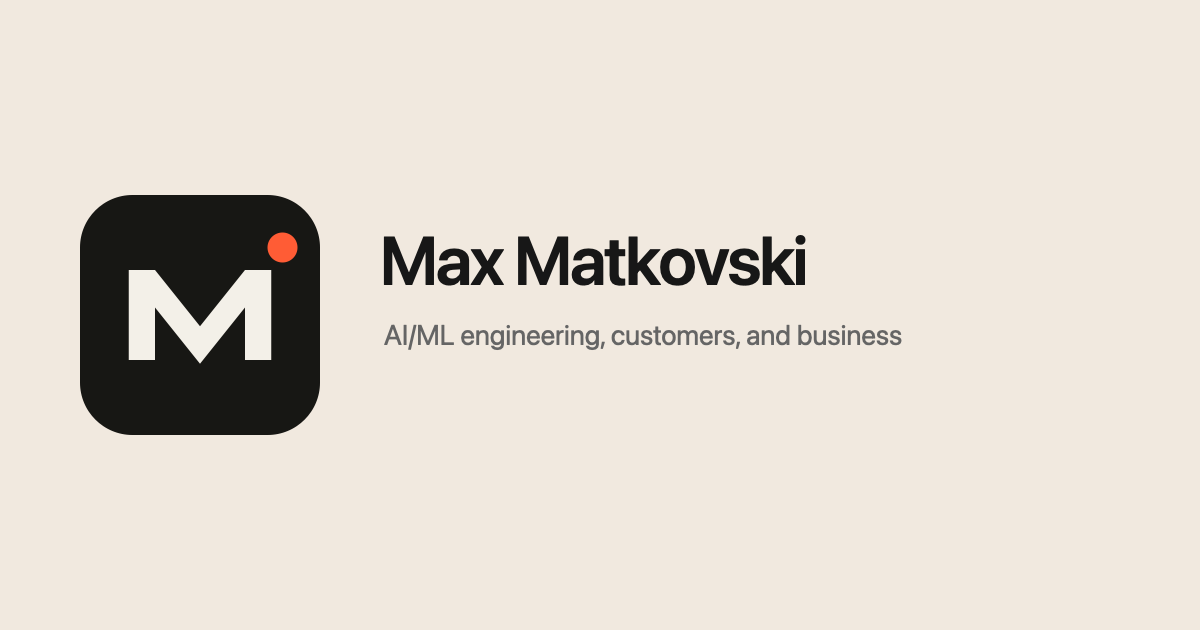
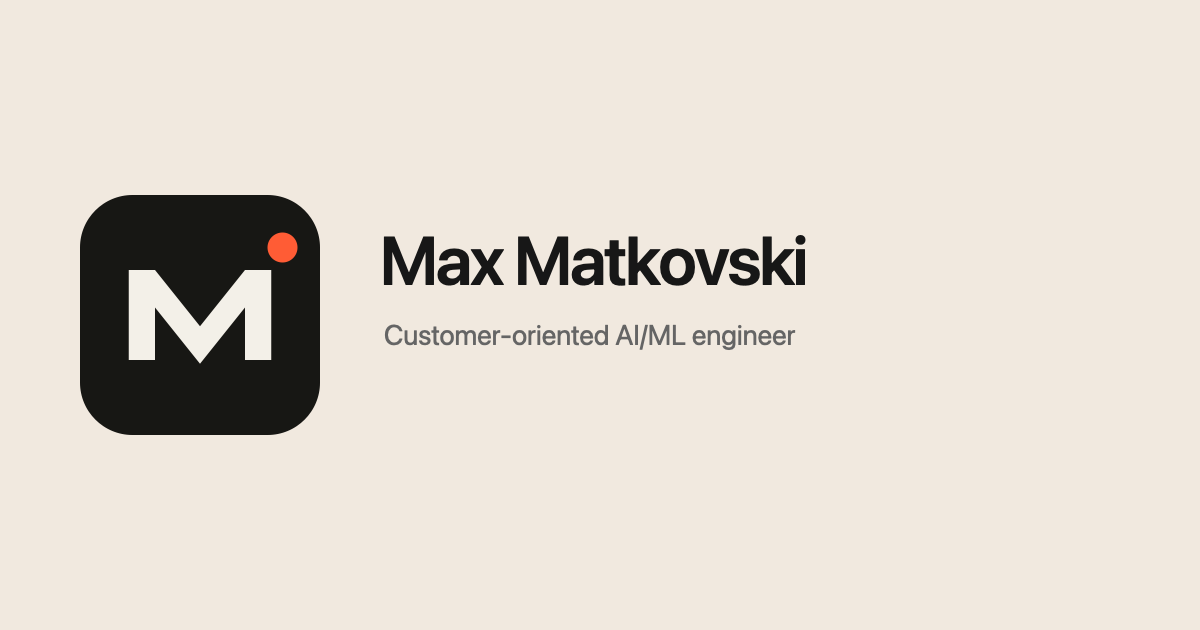
Refine customer-oriented positioning

Changed region(s): [[0.3083, 0.5127, 0.7708, 0.573]]

diff --git a/index.html b/index.html
@@ -6,10 +6,10 @@
     <meta name="theme-color" content="#f1e9df" />
     <meta name="description" content="Max Matkovski is an AI/ML engineer who bridges technical work, customers, and business." />
     <meta property="og:title" content="Max Matkovski" />
-    <meta property="og:description" content="AI/ML engineer bridging technical work, customers, and business." />
+    <meta property="og:description" content="Customer-oriented AI/ML engineer." />
     <meta property="og:type" content="website" />
     <meta property="og:url" content="https://maxmatkovski.com" />
-    <meta property="og:image" content="https://maxmatkovski.com/assets/social-card.png?v=2" />
+    <meta property="og:image" content="https://maxmatkovski.com/assets/social-card.png?v=4" />
     <meta property="og:image:width" content="1200" />
     <meta property="og:image:height" content="630" />
     <meta property="og:image:alt" content="Max Matkovski" />

diff --git a/articles/from-cyber-nation-to-ai-nation.html b/articles/from-cyber-nation-to-ai-nation.html
@@ -9,7 +9,7 @@
     <meta property="og:description" content="Israel became the world’s cyber nation. Becoming an AI nation will require patient capital, foundational research, and a new definition of success." />
     <meta property="og:type" content="article" />
     <meta property="og:url" content="https://maxmatkovski.com/articles/from-cyber-nation-to-ai-nation.html" />
-    <meta property="og:image" content="https://maxmatkovski.com/assets/social-card.png?v=2" />
+    <meta property="og:image" content="https://maxmatkovski.com/assets/social-card.png?v=4" />
     <meta property="og:image:width" content="1200" />
     <meta property="og:image:height" content="630" />
     <meta property="article:published_time" content="2026-04-04T20:22:25.000Z" />

diff --git a/articles/building-a-language-model-from-scratch-with-numpy.html b/articles/building-a-language-model-from-scratch-with-numpy.html
@@ -9,7 +9,7 @@
     <meta property="og:description" content="A step-by-step language model and transformer implementation built with NumPy, without frameworks, GPUs, or pretrained weights." />
     <meta property="og:type" content="article" />
     <meta property="og:url" content="https://maxmatkovski.com/articles/building-a-language-model-from-scratch-with-numpy.html" />
-    <meta property="og:image" content="https://maxmatkovski.com/assets/social-card.png?v=2" />
+    <meta property="og:image" content="https://maxmatkovski.com/assets/social-card.png?v=4" />
     <meta property="og:image:width" content="1200" />
     <meta property="og:image:height" content="630" />
     <meta property="article:published_time" content="2026-03-02T10:39:18.000Z" />

diff --git a/articles/ai-phishing-detector-with-claude-and-mcp.html b/articles/ai-phishing-detector-with-claude-and-mcp.html
@@ -9,7 +9,7 @@
     <meta property="og:description" content="Building an autonomous phishing-detection agent with Claude 4 and the Model Context Protocol." />
     <meta property="og:type" content="article" />
     <meta property="og:url" content="https://maxmatkovski.com/articles/ai-phishing-detector-with-claude-and-mcp.html" />
-    <meta property="og:image" content="https://maxmatkovski.com/assets/social-card.png?v=2" />
+    <meta property="og:image" content="https://maxmatkovski.com/assets/social-card.png?v=4" />
     <meta property="og:image:width" content="1200" />
     <meta property="og:image:height" content="630" />
     <meta property="article:published_time" content="2025-10-26T22:40:37.000Z" />

diff --git a/articles/nlp-of-100000-climate-change-tweets.html b/articles/nlp-of-100000-climate-change-tweets.html
@@ -9,7 +9,7 @@
     <meta property="og:description" content="Natural language processing and sentiment analysis of 100,000 tweets about climate change." />
     <meta property="og:type" content="article" />
     <meta property="og:url" content="https://maxmatkovski.com/articles/nlp-of-100000-climate-change-tweets.html" />
-    <meta property="og:image" content="https://maxmatkovski.com/assets/social-card.png?v=2" />
+    <meta property="og:image" content="https://maxmatkovski.com/assets/social-card.png?v=4" />
     <meta property="og:image:width" content="1200" />
     <meta property="og:image:height" content="630" />
     <meta property="article:published_time" content="2023-11-08T00:42:38.000Z" />

diff --git a/articles/predicting-water-potability-with-machine-learning.html b/articles/predicting-water-potability-with-machine-learning.html
@@ -9,7 +9,7 @@
     <meta property="og:description" content="Using machine-learning models to predict whether water is safe to drink." />
     <meta property="og:type" content="article" />
     <meta property="og:url" content="https://maxmatkovski.com/articles/predicting-water-potability-with-machine-learning.html" />
-    <meta property="og:image" content="https://maxmatkovski.com/assets/social-card.png?v=2" />
+    <meta property="og:image" content="https://maxmatkovski.com/assets/social-card.png?v=4" />
     <meta property="og:image:width" content="1200" />
     <meta property="og:image:height" content="630" />
     <meta property="article:published_time" content="2023-11-07T23:54:41.000Z" />

diff --git a/writings/index.html b/writings/index.html
@@ -9,7 +9,7 @@
     <meta property="og:description" content="Writing about artificial intelligence, machine learning, technology, and business." />
     <meta property="og:type" content="website" />
     <meta property="og:url" content="https://maxmatkovski.com/writings" />
-    <meta property="og:image" content="https://maxmatkovski.com/assets/social-card.png?v=2" />
+    <meta property="og:image" content="https://maxmatkovski.com/assets/social-card.png?v=4" />
     <meta property="og:image:width" content="1200" />
     <meta property="og:image:height" content="630" />
     <meta property="og:image:alt" content="Max Matkovski" />
